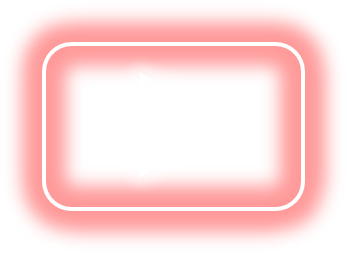
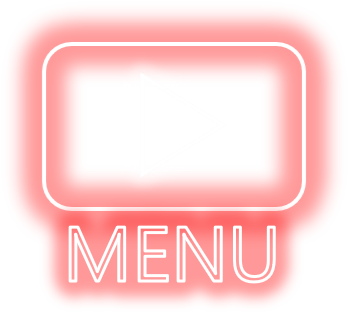
메뉴랑 지도수정

diff --git a/info/templates/home.html b/info/templates/home.html
@@ -92,7 +92,28 @@ jQuery (necessary for Bootstrap's JavaScript plugins)
           <img src="{% static 'img/main_5.png' %}" class="d-block w-100" alt="...">
       </div>
       <div class="section" id="section2">
-          <img src="{% static 'img/main_3.png' %}" class="d-block w-100" alt="...">
+          <div id="carouselExampleIndicators2" class="carousel slide carousel-fade" data-ride="carousel" data-interval="5000">
+              <ol class="carousel-indicators">
+                <li data-target="#carouselExampleIndicators" data-slide-to="0" class="active"></li>
+                <li data-target="#carouselExampleIndicators" data-slide-to="1"></li>
+              </ol>
+              <div class="carousel-inner">
+                <div class="carousel-item active">
+                    <img src="/static/img/main_map1.png" style="" class="d-block w-100 picture_size" alt="...">
+                </div>
+                <div class="carousel-item">
+                    <img src="/static/img/main_map2.png" style=""  class="d-block w-100 picture_size" alt="...">
+                </div>
+              </div>
+              <a class="carousel-control-prev" href="#carouselExampleIndicators2" role="button" data-slide="prev">
+                <span class="carousel-control-prev-icon" aria-hidden="true"></span>
+                <span class="sr-only">Previous</span>
+              </a>
+              <a class="carousel-control-next" href="#carouselExampleIndicators2" role="button" data-slide="next">
+                <span class="carousel-control-next-icon" aria-hidden="true"></span>
+                <span class="sr-only">Next</span>
+              </a>
+            </div>
       </div>
       <div class="section" id="section3">
           <img src="{% static 'img/main_4.png' %}" class="d-block w-100" alt="...">
